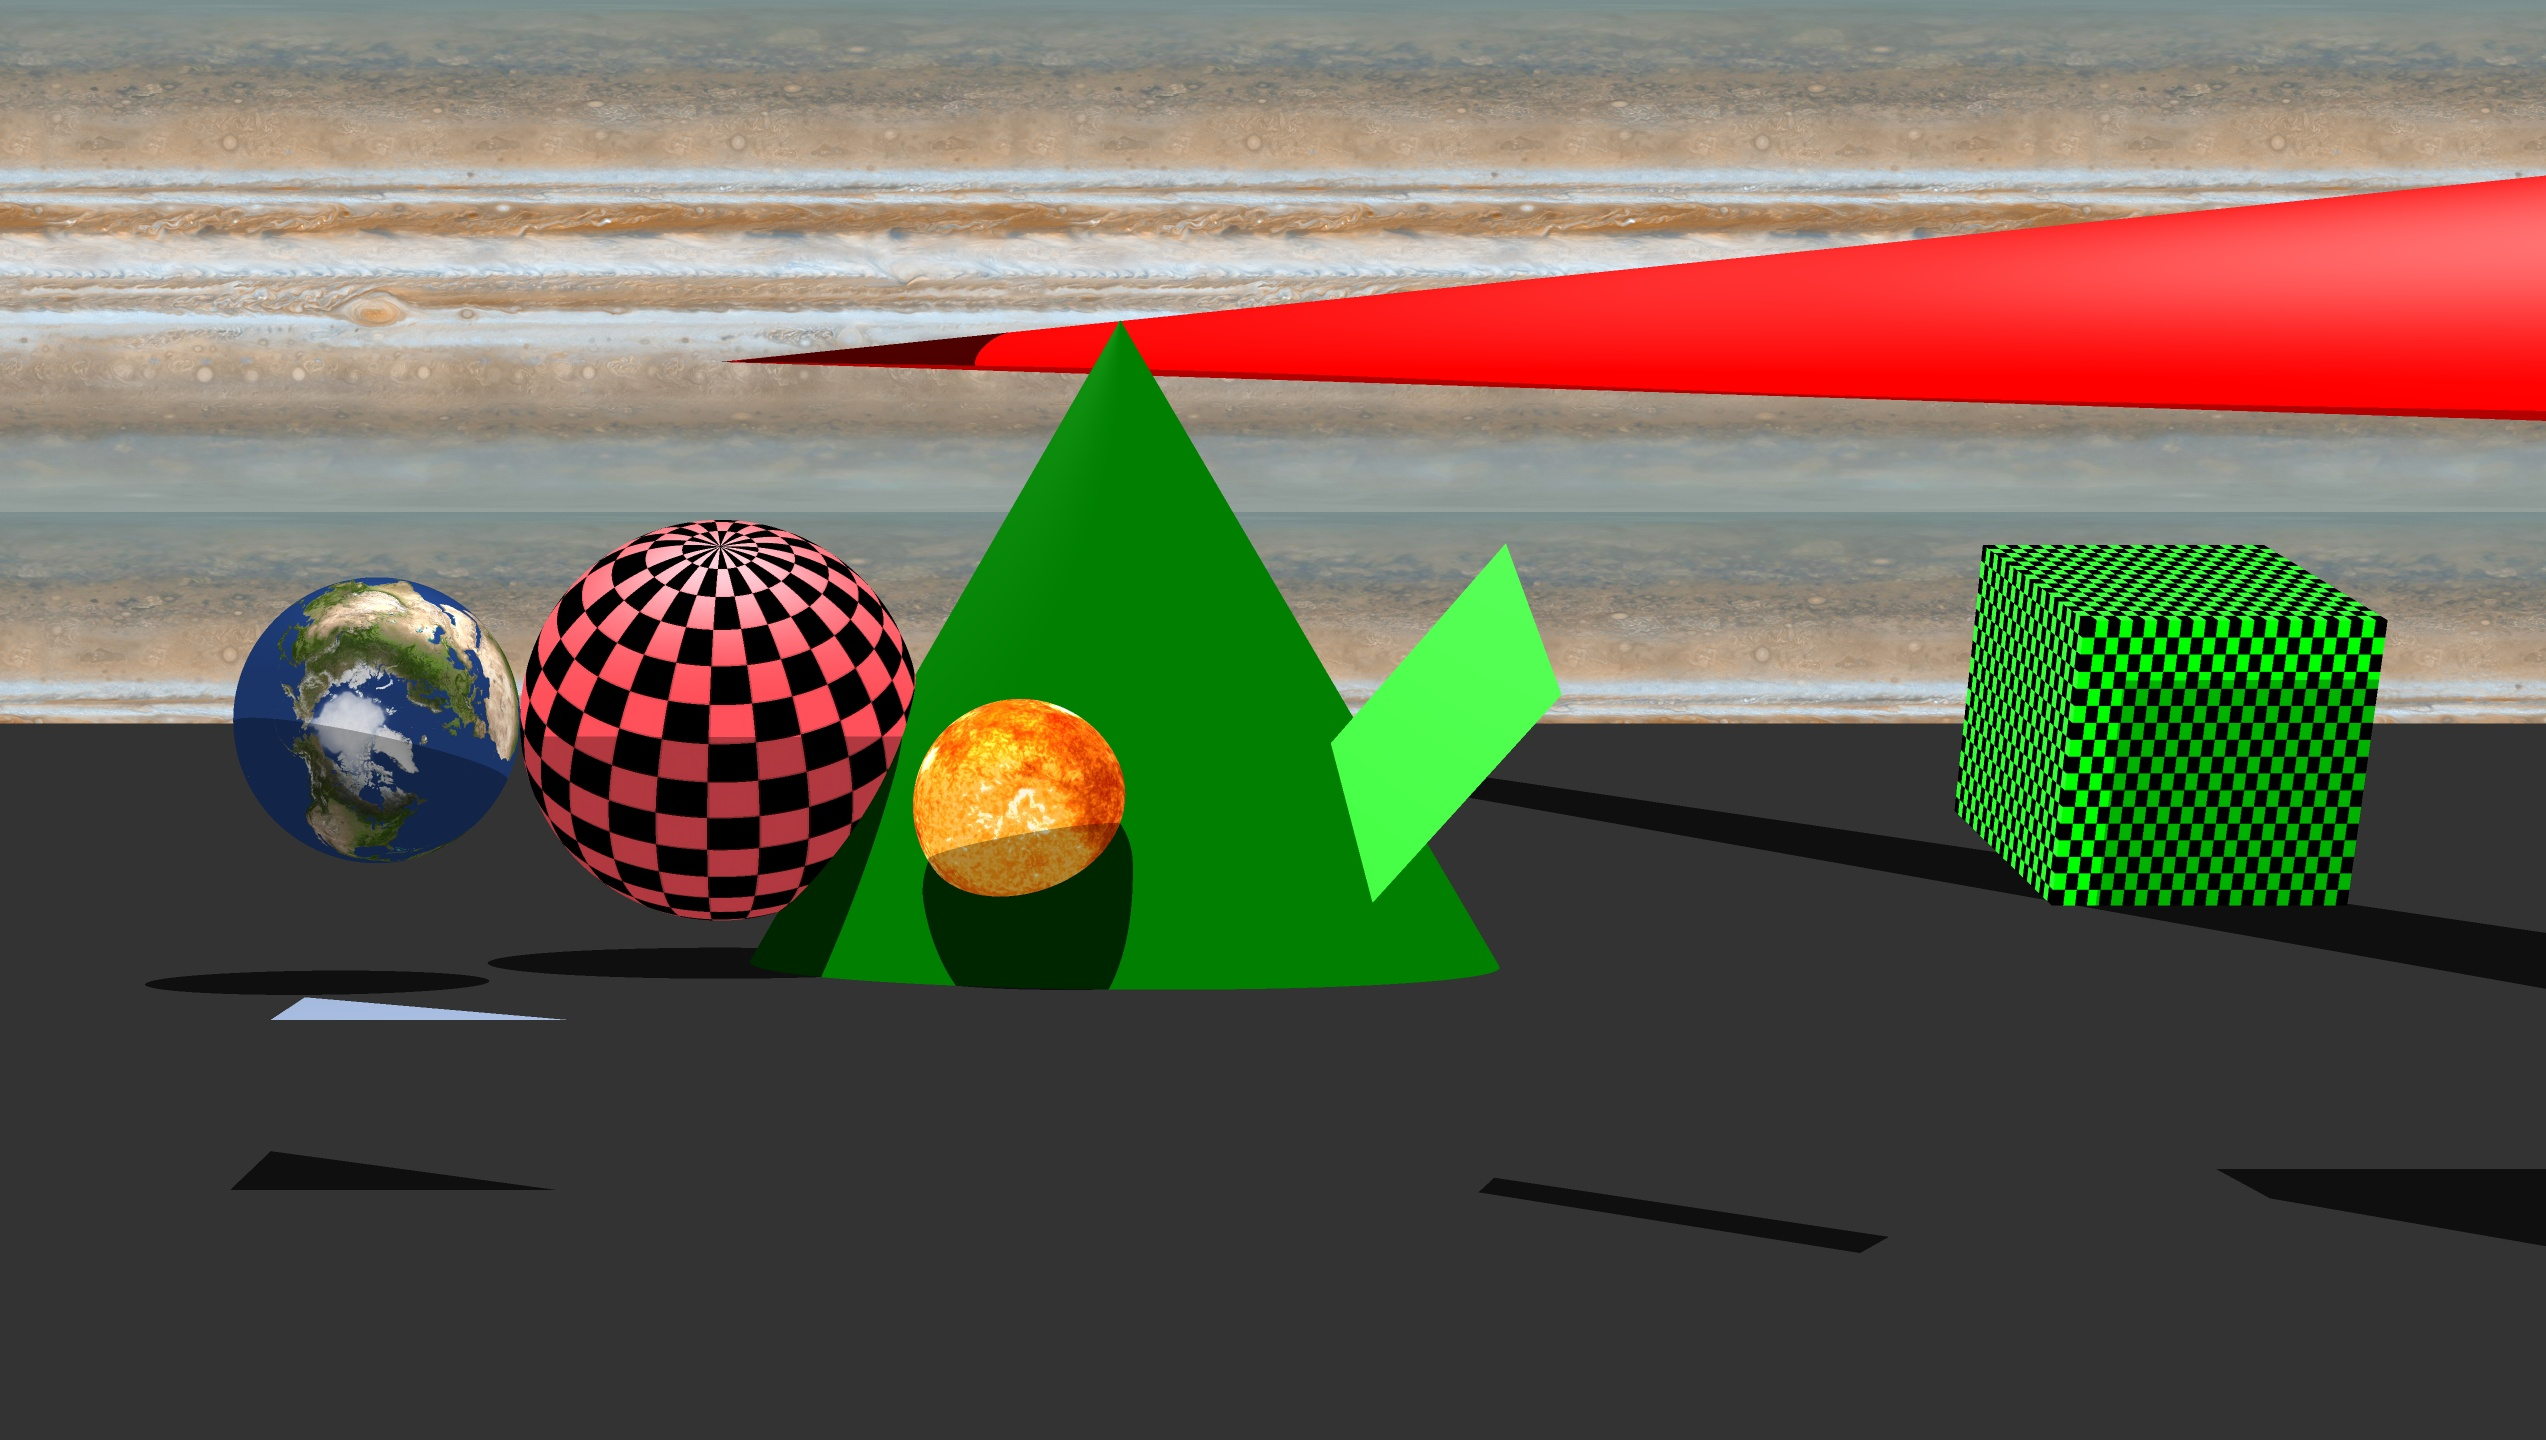
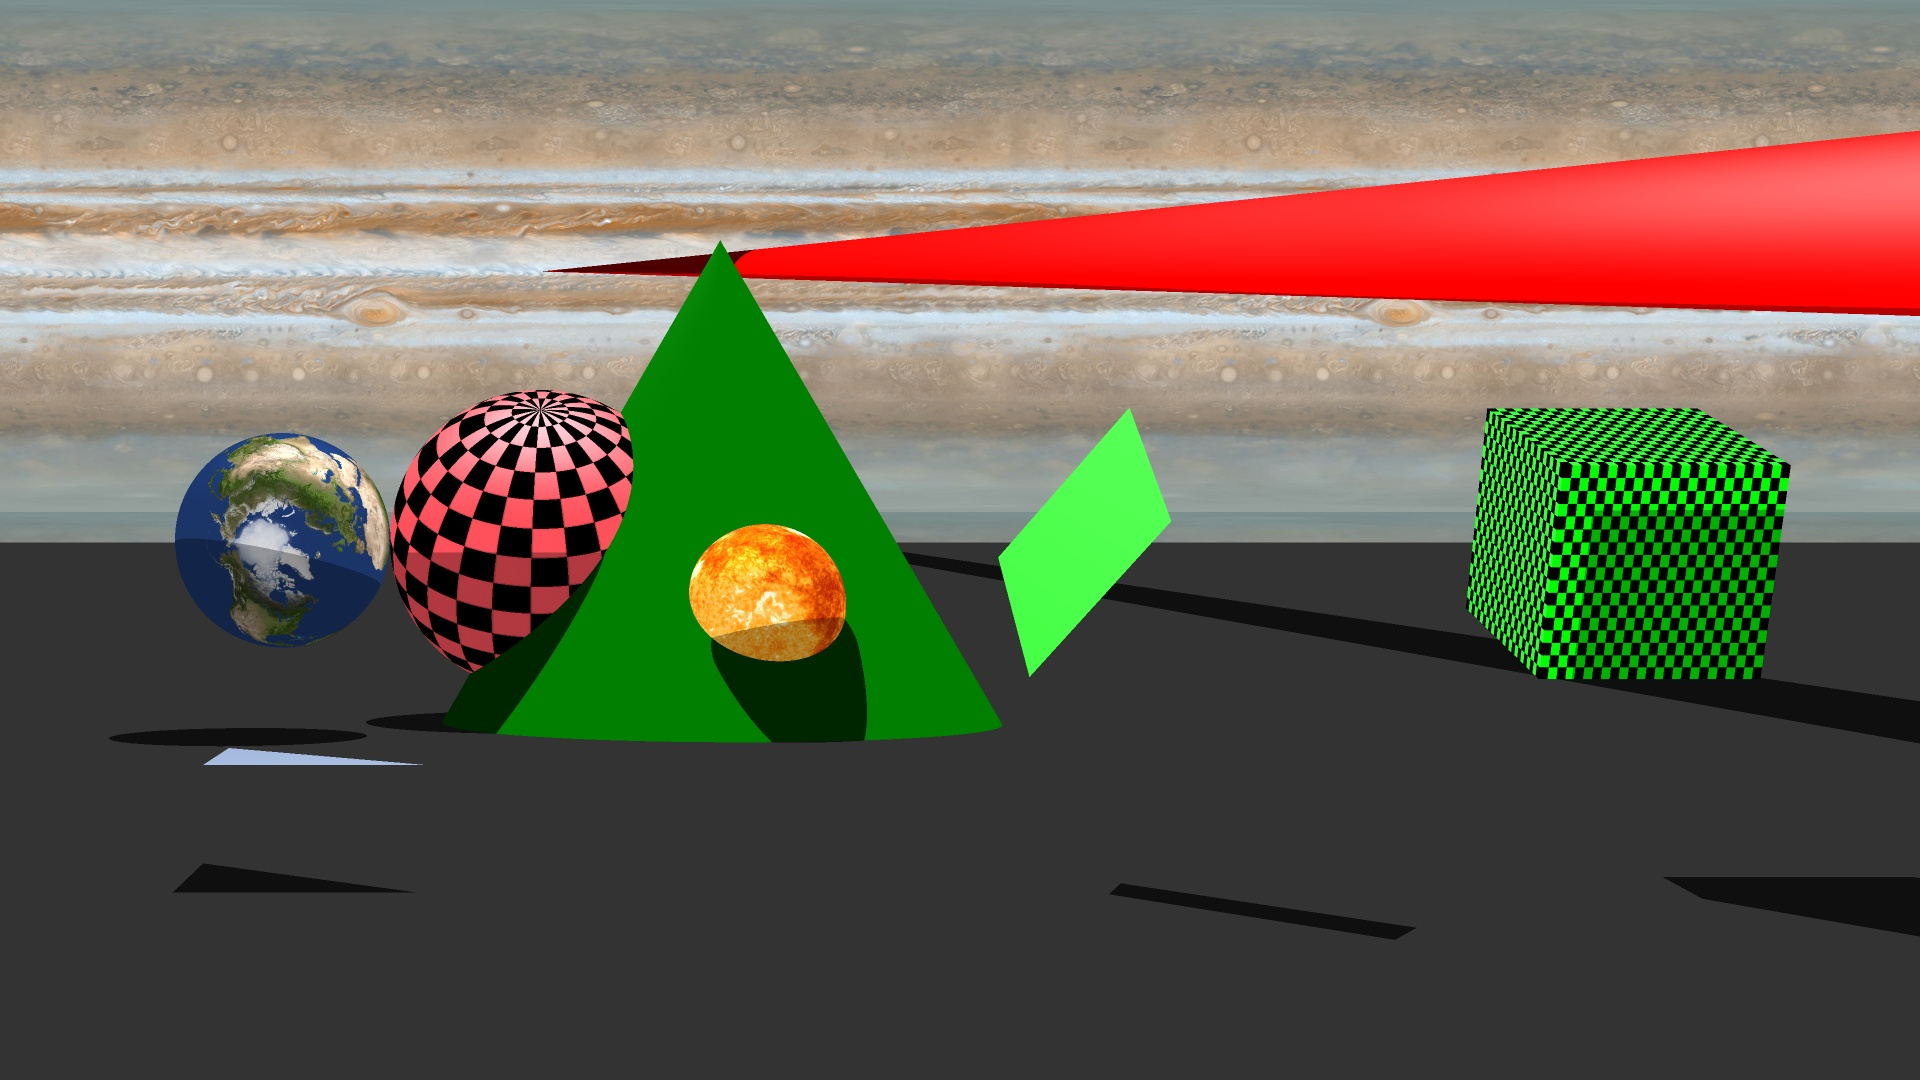
add option uv

diff --git a/Raytracing/Raytracing/Main.cpp b/Raytracing/Raytracing/Main.cpp
@@ -60,6 +60,7 @@ int main(int argc, char** argv)
     std::string imageName;
     std::string sceneName;
     bool ombre = false;
+    bool uv = false;
     while (saisieValid != "y") {
         std::cout << std::endl << "---------------------" << std::endl << std::endl <<"Choisir la taille en longueur : ";
         std::cin >> x;
@@ -80,18 +81,30 @@ int main(int argc, char** argv)
         sceneChosed -= 1;
         sceneName = lstScenes.at(sceneChosed);
 
-        std::cout << std::endl << "Voulez vous activer les ombres ? (y/n)";
-        std::string ombreStr;
-        std::cin >> ombreStr;
-        if (ombreStr == "y") {
-            ombre = true;
+        std::cout << std::endl << "Voulez vous activer l'affichage des uv ? (y/n)";
+        std::string uvStr;
+        std::cin >> uvStr;
+        if (uvStr == "y") {
+            uv = true;
         }
-        if (ombre) {
-            std::cout << "Vous avez choisi une taille de " << x << " x " << y << " avec les ombres activees" << std::endl;
+        if (uv) {
+            std::cout << "Vous avez choisi une taille de " << x << " x " << y << " avec l'affichage des uv" << std::endl;
         }
         else {
-            std::cout << "Vous avez choisi une taille de " << x << " x " << y << " avec les ombres desactivees" << std::endl;
+            std::cout << std::endl << "Voulez vous activer les ombres ? (y/n)";
+            std::string ombreStr;
+            std::cin >> ombreStr;
+            if (ombreStr == "y") {
+                ombre = true;
+            }
+            if (ombre) {
+                std::cout << "Vous avez choisi une taille de " << x << " x " << y << " avec les ombres activees" << std::endl;
+            }
+            else {
+                std::cout << "Vous avez choisi une taille de " << x << " x " << y << " avec les ombres desactivees" << std::endl;
+            }
         }
+        
         std::cout << "Le fichier de scene est " << sceneName <<" et l'image sera enregistree sous le nom " << imageName << std::endl;
         
         std::cout << "Confirmez vous les parametres ? (y/n)";
@@ -362,7 +375,7 @@ int main(int argc, char** argv)
         //cv::waitKey(1);
 
         Tracer tracer = Tracer();
-        tracer.render(scene,x,y, imageName, ombre);
+        tracer.render(scene,x,y, imageName, ombre, uv);
 
         /*sphere.translate(n, 0, 0);
 

diff --git a/Raytracing/Raytracing/Tracer.cpp b/Raytracing/Raytracing/Tracer.cpp
@@ -24,7 +24,7 @@ Tracer::Tracer()
 {
 }
 unsigned x, y;
-void Tracer::render(Scene scene, int w, int h, std::string imageName, bool ombre) {
+void Tracer::render(Scene scene, int w, int h, std::string imageName, bool ombre, bool uv) {
 
     
 
@@ -64,7 +64,7 @@ void Tracer::render(Scene scene, int w, int h, std::string imageName, bool ombre
             float yprim = (float)y / (float)height;
             Ray ray = camera.getRay(xprim, yprim);
             
-            *pixel = trace(ray, scene, 5, ombre);
+            *pixel = trace(ray, scene, 5, ombre, uv);
             mat.at<cv::Vec3b>(y, x) = cv::Vec3b(pixel->tabColor[2]*255, pixel->tabColor[1]*255, pixel->tabColor[0]*255);
             
         }
@@ -96,12 +96,15 @@ void Tracer::render(Scene scene, int w, int h, std::string imageName, bool ombre
 
 }
 
-Color Tracer::getImpactColor(Ray& ray, Object* obj, Point& impact, Scene& scene) {
+Color Tracer::getImpactColor(Ray& ray, Object* obj, Point& impact, Scene& scene, bool uv) {
 
    Material m = obj->getMaterial();
     Ray normal = obj->getNormal(impact, ray.origin);
-    //Color res(normal.vector[0], normal.vector[1], normal.vector[2]);
-    //return res;
+    if (uv) {
+        Color res(normal.vector[0], normal.vector[1], normal.vector[2]);
+        return res;
+    }
+    
     Color c = m.ambiant.mul(scene.getAmbiant());
     for (int l = 0; l < scene.nbLights(); l++) {
         Light light = scene.getLight(l);
@@ -121,7 +124,7 @@ Color Tracer::getImpactColor(Ray& ray, Object* obj, Point& impact, Scene& scene)
 
 }
 
-Color Tracer::trace(Ray ray, Scene scene, int depth, bool ombre)
+Color Tracer::trace(Ray ray, Scene scene, int depth, bool ombre, bool uv)
 {
     
     Point impact = Point();
@@ -132,7 +135,7 @@ Color Tracer::trace(Ray ray, Scene scene, int depth, bool ombre)
         res = scene.getBackGroundImage(x,y);
     }
     else {
-        res = getImpactColor(ray, object, impact, scene);
+        res = getImpactColor(ray, object, impact, scene, uv);
         if (object->Texture.data != NULL) {
             Point p = object->getTextureCoordinates(impact);
             int xt = p[0] * object->Texture.cols;

diff --git a/Raytracing/Raytracing/Cone.cpp b/Raytracing/Raytracing/Cone.cpp
@@ -28,21 +28,15 @@ Point Cone::getTextureCoordinates(const Point& p) {
 
 Ray Cone::getNormal(const Point& impact, const Point& observator) {
 
-
-
     Point lp = globalToLocal(impact);
     Point lo = globalToLocal(observator);
-
-    float x = lp[0] * (INFINITY / 0.523599);
-    float y = 0.523599 / INFINITY;
-    float z = lp[2] * (INFINITY / 0.523599);
-    //Ray res(lp, Vector(lp[0], lp[1], sin(0.523599)));
-    //Vector v = Vector(0, -1, 0);
-    //Vector cp = Vector(lp[0], lp[1], lp[3]);
-    //Vector n = cp * v.dot(cp) / cp.dot(cp) - v;
-
-    Ray res(lp, Vector(x, y, z));
-    
+    if ((lo - Point(0, lo[1], 0)).norm() > 1) {
+        Ray res(lp, Vector(lp[0], 0, lp[2]));
+        res = localToGlobal(res);
+        res.normalized();
+        return res;
+    }
+    Ray res(lp, Vector(-lp[0], 0, -lp[2]));
     res = localToGlobal(res);
     res.normalized();
     return res;

diff --git a/Raytracing/Raytracing/Tracer.hpp b/Raytracing/Raytracing/Tracer.hpp
@@ -11,9 +11,9 @@ public:
 
 	Tracer();
 
-	void render(Scene scene,int,int,std::string, bool);
-	Color getImpactColor(Ray& ray, Object* obj, Point& impact, Scene& scene);
-	Color trace(Ray ray, Scene scene, int depth, bool ombre);
+	void render(Scene scene,int,int,std::string, bool, bool);
+	Color getImpactColor(Ray& ray, Object* obj, Point& impact, Scene& scene, bool uv);
+	Color trace(Ray ray, Scene scene, int depth, bool ombre, bool uv);
 
 private:
 
